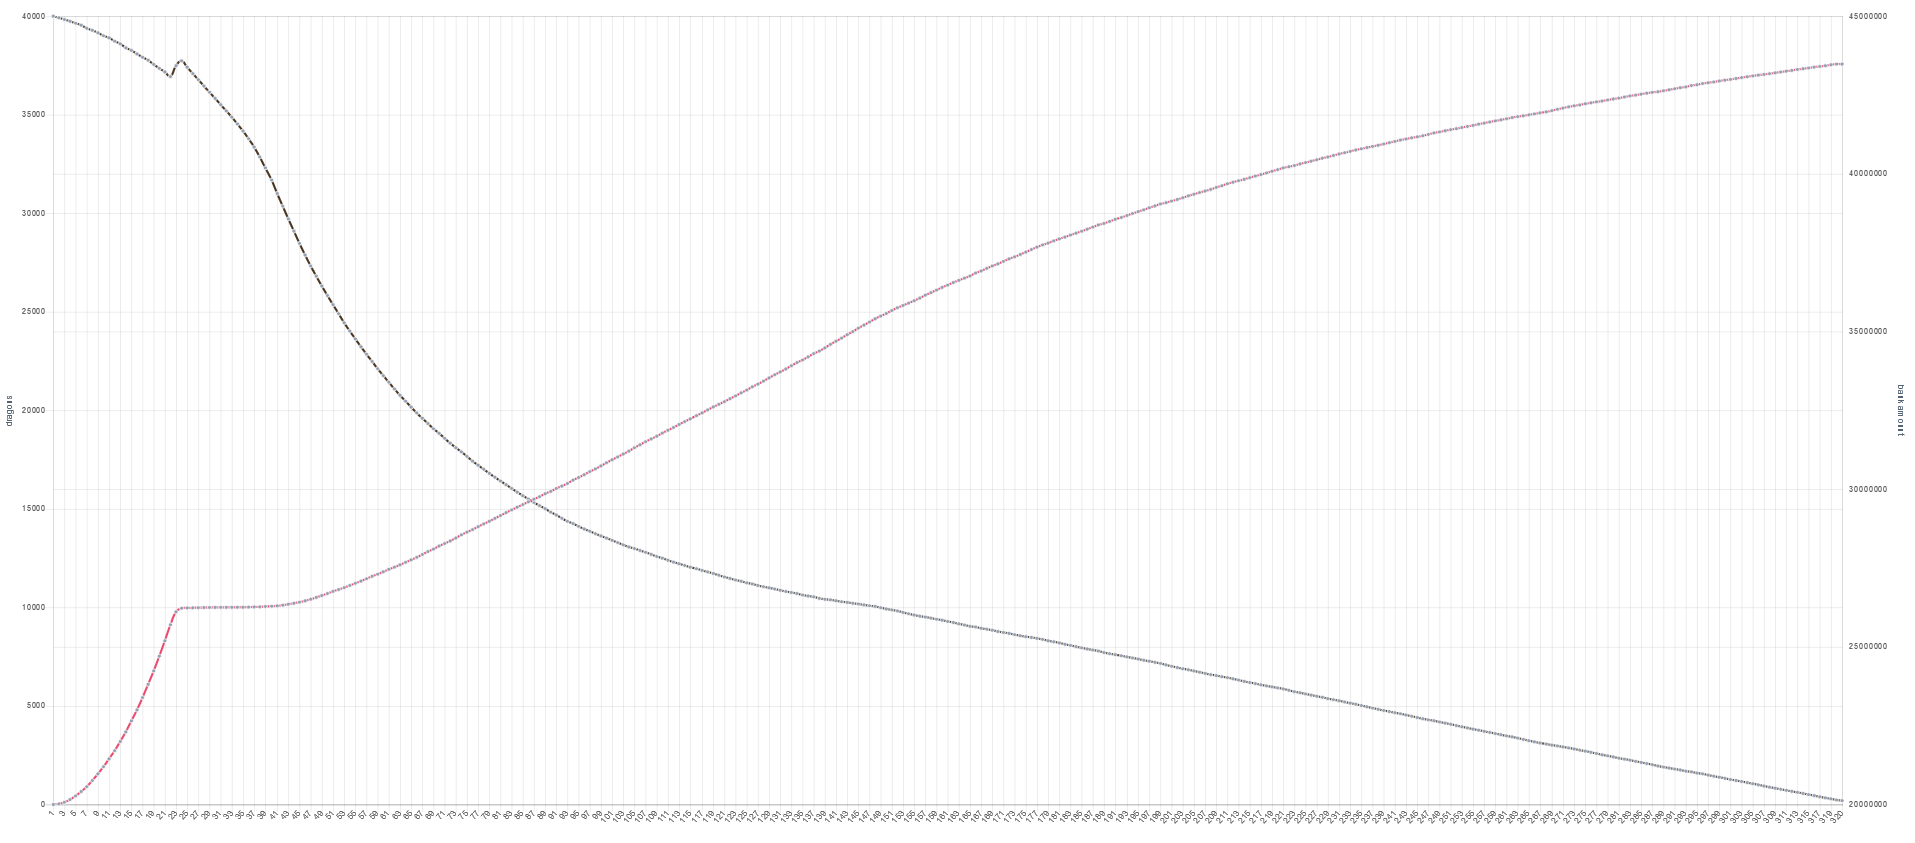
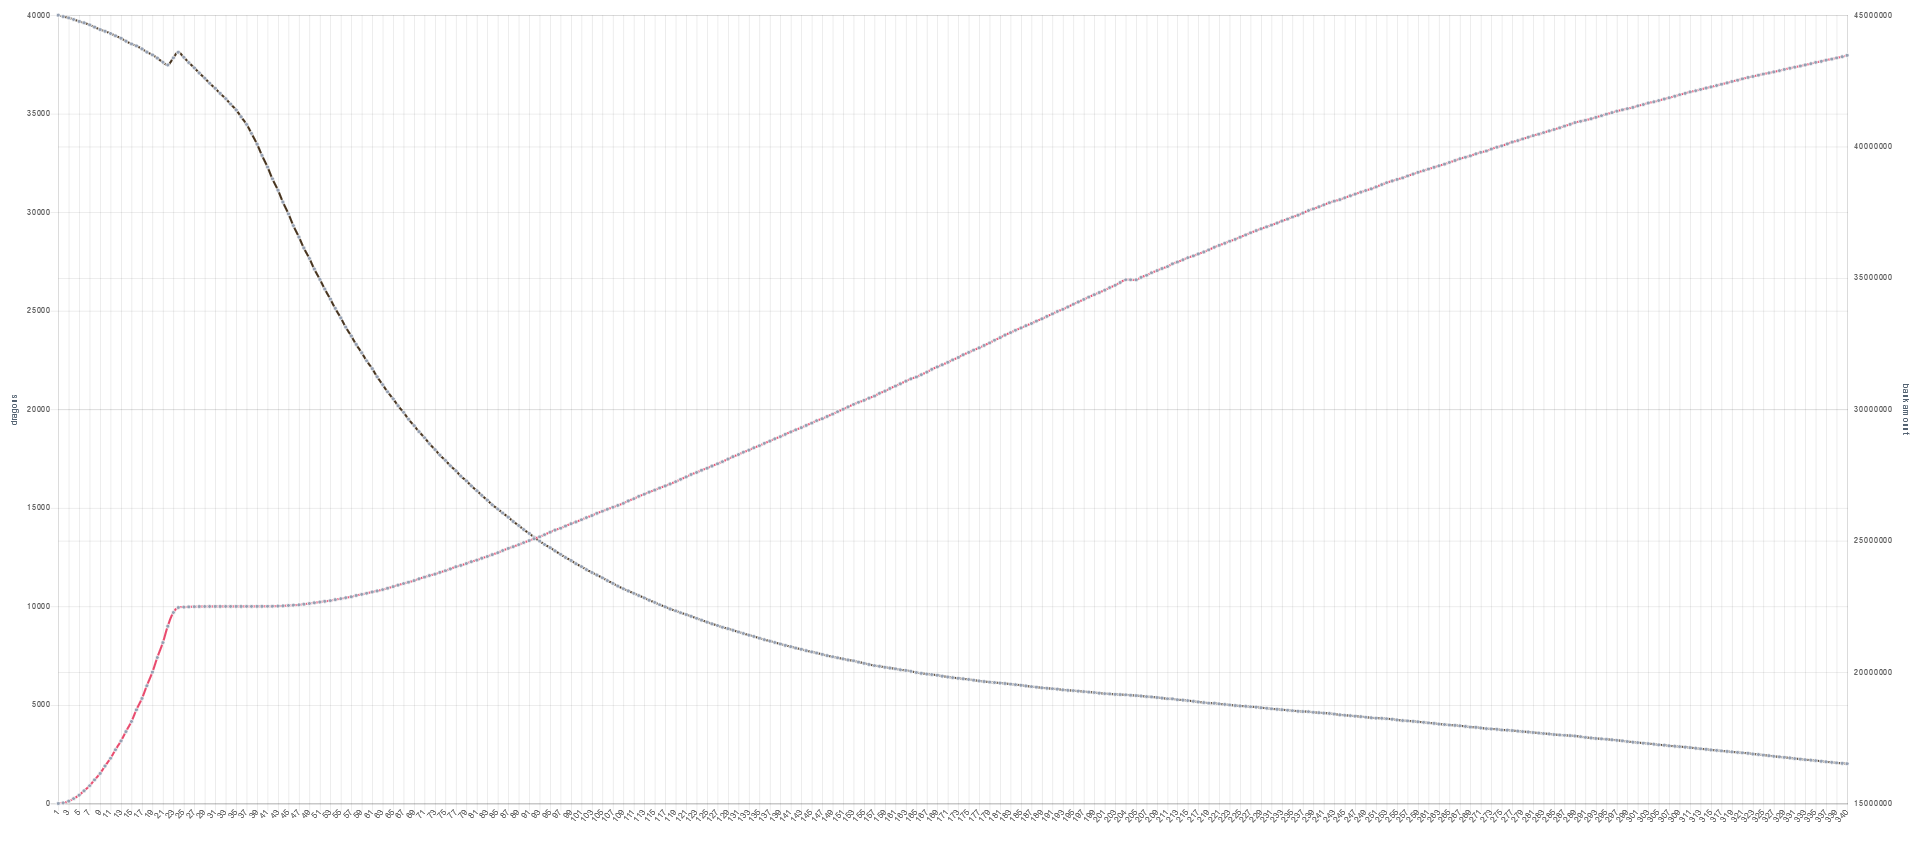
Case study 1 updated

diff --git a/dragonereum-whitepaper.tex b/dragonereum-whitepaper.tex
@@ -1963,57 +1963,57 @@ We study in detail three different cases. It should be noted that not all possib
 \hhline{-------}
 %row no:3
 \multicolumn{1}{|p{0.6in}}{\raggedleft {\fontsize{10pt}{12.0pt}\selectfont 500000}} & 
-\multicolumn{1}{|p{0.64in}}{\raggedleft {\fontsize{10pt}{12.0pt}\selectfont 19100}} & 
-\multicolumn{1}{|p{0.55in}}{\raggedleft {\fontsize{10pt}{12.0pt}\selectfont 27690000}} & 
-\multicolumn{1}{|p{0.55in}}{\raggedleft {\fontsize{10pt}{12.0pt}\selectfont 40435000}} & 
-\multicolumn{1}{|p{0.99in}}{\raggedleft {\fontsize{10pt}{12.0pt}\selectfont 29.92}} & 
-\multicolumn{1}{|p{0.9in}}{\raggedleft {\fontsize{10pt}{12.0pt}\selectfont 0.000150}} & 
-\multicolumn{1}{|p{0.99in}|}{\raggedleft {\fontsize{10pt}{12.0pt}\selectfont 0.150}} \\
+\multicolumn{1}{|p{0.64in}}{\raggedleft {\fontsize{10pt}{12.0pt}\selectfont 15900}} & 
+\multicolumn{1}{|p{0.55in}}{\raggedleft {\fontsize{10pt}{12.0pt}\selectfont 22650000}} & 
+\multicolumn{1}{|p{0.55in}}{\raggedleft {\fontsize{10pt}{12.0pt}\selectfont 42050000}} & 
+\multicolumn{1}{|p{0.99in}}{\raggedleft {\fontsize{10pt}{12.0pt}\selectfont 36.68}} & 
+\multicolumn{1}{|p{0.9in}}{\raggedleft {\fontsize{10pt}{12.0pt}\selectfont 0.000123}} & 
+\multicolumn{1}{|p{0.99in}|}{\raggedleft {\fontsize{10pt}{12.0pt}\selectfont 0.123}} \\
 \hhline{-------}
 %row no:4
 \multicolumn{1}{|p{0.6in}}{\raggedleft {\fontsize{10pt}{12.0pt}\selectfont 1000000}} & 
-\multicolumn{1}{|p{0.64in}}{\raggedleft {\fontsize{10pt}{12.0pt}\selectfont 26800}} & 
-\multicolumn{1}{|p{0.55in}}{\raggedleft {\fontsize{10pt}{12.0pt}\selectfont 25650000}} & 
-\multicolumn{1}{|p{0.55in}}{\raggedleft {\fontsize{10pt}{12.0pt}\selectfont 36590000}} & 
-\multicolumn{1}{|p{0.99in}}{\raggedleft {\fontsize{10pt}{12.0pt}\selectfont 14.32}} & 
-\multicolumn{1}{|p{0.9in}}{\raggedleft {\fontsize{10pt}{12.0pt}\selectfont 0.000314}} & 
-\multicolumn{1}{|p{0.99in}|}{\raggedleft {\fontsize{10pt}{12.0pt}\selectfont 0.314}} \\
+\multicolumn{1}{|p{0.64in}}{\raggedleft {\fontsize{10pt}{12.0pt}\selectfont 23500}} & 
+\multicolumn{1}{|p{0.55in}}{\raggedleft {\fontsize{10pt}{12.0pt}\selectfont 19600000}} & 
+\multicolumn{1}{|p{0.55in}}{\raggedleft {\fontsize{10pt}{12.0pt}\selectfont 38250000}} & 
+\multicolumn{1}{|p{0.99in}}{\raggedleft {\fontsize{10pt}{12.0pt}\selectfont 15.02}} & 
+\multicolumn{1}{|p{0.9in}}{\raggedleft {\fontsize{10pt}{12.0pt}\selectfont 0.000299}} & 
+\multicolumn{1}{|p{0.99in}|}{\raggedleft {\fontsize{10pt}{12.0pt}\selectfont 0.299}} \\
 \hhline{-------}
 %row no:5
 \multicolumn{1}{|p{0.6in}}{\raggedleft {\fontsize{10pt}{12.0pt}\selectfont 1500000}} & 
-\multicolumn{1}{|p{0.64in}}{\raggedleft {\fontsize{10pt}{12.0pt}\selectfont 31100}} & 
-\multicolumn{1}{|p{0.55in}}{\raggedleft {\fontsize{10pt}{12.0pt}\selectfont 24160000}} & 
-\multicolumn{1}{|p{0.55in}}{\raggedleft {\fontsize{10pt}{12.0pt}\selectfont 34440000}} & 
-\multicolumn{1}{|p{0.99in}}{\raggedleft {\fontsize{10pt}{12.0pt}\selectfont 10.05}} & 
-\multicolumn{1}{|p{0.9in}}{\raggedleft {\fontsize{10pt}{12.0pt}\selectfont 0.000448}} & 
-\multicolumn{1}{|p{0.99in}|}{\raggedleft {\fontsize{10pt}{12.0pt}\selectfont 0.448}} \\
+\multicolumn{1}{|p{0.64in}}{\raggedleft {\fontsize{10pt}{12.0pt}\selectfont 28900}} & 
+\multicolumn{1}{|p{0.55in}}{\raggedleft {\fontsize{10pt}{12.0pt}\selectfont 18680000}} & 
+\multicolumn{1}{|p{0.55in}}{\raggedleft {\fontsize{10pt}{12.0pt}\selectfont 35520000}} & 
+\multicolumn{1}{|p{0.99in}}{\raggedleft {\fontsize{10pt}{12.0pt}\selectfont 9.54}} & 
+\multicolumn{1}{|p{0.9in}}{\raggedleft {\fontsize{10pt}{12.0pt}\selectfont 0.000471}} & 
+\multicolumn{1}{|p{0.99in}|}{\raggedleft {\fontsize{10pt}{12.0pt}\selectfont 0.471}} \\
 \hhline{-------}
 %row no:6
 \multicolumn{1}{|p{0.6in}}{\raggedleft {\fontsize{10pt}{12.0pt}\selectfont 2000000}} & 
-\multicolumn{1}{|p{0.64in}}{\raggedleft {\fontsize{10pt}{12.0pt}\selectfont 33900}} & 
-\multicolumn{1}{|p{0.55in}}{\raggedleft {\fontsize{10pt}{12.0pt}\selectfont 22760000}} & 
-\multicolumn{1}{|p{0.55in}}{\raggedleft {\fontsize{10pt}{12.0pt}\selectfont 33060000}} & 
-\multicolumn{1}{|p{0.99in}}{\raggedleft {\fontsize{10pt}{12.0pt}\selectfont 8.01}} & 
-\multicolumn{1}{|p{0.9in}}{\raggedleft {\fontsize{10pt}{12.0pt}\selectfont 0.000561}} & 
-\multicolumn{1}{|p{0.99in}|}{\raggedleft {\fontsize{10pt}{12.0pt}\selectfont 0.561}} \\
+\multicolumn{1}{|p{0.64in}}{\raggedleft {\fontsize{10pt}{12.0pt}\selectfont 32800}} & 
+\multicolumn{1}{|p{0.55in}}{\raggedleft {\fontsize{10pt}{12.0pt}\selectfont 17930000}} & 
+\multicolumn{1}{|p{0.55in}}{\raggedleft {\fontsize{10pt}{12.0pt}\selectfont 33610000}} & 
+\multicolumn{1}{|p{0.99in}}{\raggedleft {\fontsize{10pt}{12.0pt}\selectfont 7.17}} & 
+\multicolumn{1}{|p{0.9in}}{\raggedleft {\fontsize{10pt}{12.0pt}\selectfont 0.000627}} & 
+\multicolumn{1}{|p{0.99in}|}{\raggedleft {\fontsize{10pt}{12.0pt}\selectfont 0.627}} \\
 \hhline{-------}
 %row no:7
 \multicolumn{1}{|p{0.6in}}{\raggedleft {\fontsize{10pt}{12.0pt}\selectfont 2500000}} & 
-\multicolumn{1}{|p{0.64in}}{\raggedleft {\fontsize{10pt}{12.0pt}\selectfont 35900}} & 
-\multicolumn{1}{|p{0.55in}}{\raggedleft {\fontsize{10pt}{12.0pt}\selectfont 21410000}} & 
-\multicolumn{1}{|p{0.55in}}{\raggedleft {\fontsize{10pt}{12.0pt}\selectfont 32020000}} & 
-\multicolumn{1}{|p{0.99in}}{\raggedleft {\fontsize{10pt}{12.0pt}\selectfont 6.70}} & 
-\multicolumn{1}{|p{0.9in}}{\raggedleft {\fontsize{10pt}{12.0pt}\selectfont 0.000671}} & 
-\multicolumn{1}{|p{0.99in}|}{\raggedleft {\fontsize{10pt}{12.0pt}\selectfont 0.671}} \\
+\multicolumn{1}{|p{0.64in}}{\raggedleft {\fontsize{10pt}{12.0pt}\selectfont 35700}} & 
+\multicolumn{1}{|p{0.55in}}{\raggedleft {\fontsize{10pt}{12.0pt}\selectfont 17220000}} & 
+\multicolumn{1}{|p{0.55in}}{\raggedleft {\fontsize{10pt}{12.0pt}\selectfont 32130000}} & 
+\multicolumn{1}{|p{0.99in}}{\raggedleft {\fontsize{10pt}{12.0pt}\selectfont 5.81}} & 
+\multicolumn{1}{|p{0.9in}}{\raggedleft {\fontsize{10pt}{12.0pt}\selectfont 0.000775}} & 
+\multicolumn{1}{|p{0.99in}|}{\raggedleft {\fontsize{10pt}{12.0pt}\selectfont 0.775}} \\
 \hhline{-------}
 %row no:8
 \multicolumn{1}{|p{0.6in}}{\raggedleft {\fontsize{10pt}{12.0pt}\selectfont 3000000}} & 
-\multicolumn{1}{|p{0.64in}}{\raggedleft {\fontsize{10pt}{12.0pt}\selectfont 37600}} & 
-\multicolumn{1}{|p{0.55in}}{\raggedleft {\fontsize{10pt}{12.0pt}\selectfont 20120000}} & 
-\multicolumn{1}{|p{0.55in}}{\raggedleft {\fontsize{10pt}{12.0pt}\selectfont 31220000}} & 
-\multicolumn{1}{|p{0.99in}}{\raggedleft {\fontsize{10pt}{12.0pt}\selectfont 5.76}} & 
-\multicolumn{1}{|p{0.9in}}{\raggedleft {\fontsize{10pt}{12.0pt}\selectfont 0.000780}} & 
-\multicolumn{1}{|p{0.99in}|}{\raggedleft {\fontsize{10pt}{12.0pt}\selectfont 0.780}} \\
+\multicolumn{1}{|p{0.64in}}{\raggedleft {\fontsize{10pt}{12.0pt}\selectfont 37900}} & 
+\multicolumn{1}{|p{0.55in}}{\raggedleft {\fontsize{10pt}{12.0pt}\selectfont 16520000}} & 
+\multicolumn{1}{|p{0.55in}}{\raggedleft {\fontsize{10pt}{12.0pt}\selectfont 31020000}} & 
+\multicolumn{1}{|p{0.99in}}{\raggedleft {\fontsize{10pt}{12.0pt}\selectfont 4.95}} & 
+\multicolumn{1}{|p{0.9in}}{\raggedleft {\fontsize{10pt}{12.0pt}\selectfont 0.000908}} & 
+\multicolumn{1}{|p{0.99in}|}{\raggedleft {\fontsize{10pt}{12.0pt}\selectfont 0.908}} \\
 \hhline{-------}
 
 \end{tabular}\caption{Case Study 1: the number of battles held (column 1), the corresponding dragon population (column 2), the Gold in the Treasury (column 3), Gold supply (column 4), the median {\it battle winner reward} (column 5), the median cost of Gold in ETH (column 6), and the cost of an egg incubation in ETH (column 7).}
@@ -2025,7 +2025,7 @@ We study in detail three different cases. It should be noted that not all possib
 %%%%%%%%%%%%%%%%%%%% Table No: 12 ends here %%%%%%%%%%%%%%%%%%%%
 
 
-In this scenario players breed dragons with a 90$\%$  probability and level them up with a 10$\%$  probability. The game balance decreases to around 20M GOLD at 3,000,000 battles and continue to decline slowly as a result of the high volume of egg incubations (part of Gold is burned during hatching), see  Table \ref{tab:Table showing the number of battles held (column 1), the corresponding dragon population (column 2), the Gold in the Treasury (column 3), the median battle winner reward (column 4), the median cost of Gold in $ (column 5), and the cost of an egg incubation (column 6).  This information is provided for the three different cases studied below. } (column 3), and Figure \ref{fig:The number of dragons (red line) as a function of the number of battles held, and the Treasury balance in GOLD (black line)} (black line). In Figure \ref{fig:The number of dragons (red line) as a function of the number of battles held, and the Treasury balance in GOLD (black line)} the dragon population growth is shown as a function of the number of battles held. The number of battles in these case studies is a more appropriate variable than using a synthetic time, as it is problematic to predict the actual number of active players. The initial sharp growth of the dragon population is due to the distribution of genesis eggs.\par
+In this scenario players breed dragons with a 90$\%$  probability and level them up with a 10$\%$  probability. The game balance decreases to around 16.5M GOLD at 3,000,000 battles and continue to decline slowly as a result of the high volume of egg incubations (part of Gold is burned during hatching), see  Table \ref{tab:Table showing the number of battles held (column 1), the corresponding dragon population (column 2), the Gold in the Treasury (column 3), the median battle winner reward (column 4), the median cost of Gold in $ (column 5), and the cost of an egg incubation (column 6).  This information is provided for the three different cases studied below. } (column 3), and Figure \ref{fig:The number of dragons (red line) as a function of the number of battles held, and the Treasury balance in GOLD (black line)} (black line). In Figure \ref{fig:The number of dragons (red line) as a function of the number of battles held, and the Treasury balance in GOLD (black line)} the dragon population growth is shown as a function of the number of battles held. The number of battles in these case studies is a more appropriate variable than using a synthetic time, as it is problematic to predict the actual number of active players. The initial sharp growth of the dragon population is due to the distribution of genesis eggs.\par
 
 
 
@@ -2043,7 +2043,7 @@ In this scenario players breed dragons with a 90$\%$  probability and level them
 %%%%%%%%%%%%%%%%%%%% Figure/Image No: 9 Ends here %%%%%%%%%%%%%%%%%%%%
 
 
-The \textit{battle winner reward} settles at 4.94 GOLD to 7.6 GOLD per battle depending on the DS\textit{.} This small range of reward values can be explained by the fact that all dragons are of similar DS since the players do not level up dragons and spend all DP on breeding. The exact values of the median \textit{battle winner reward }can be seen in  Table \ref{tab:Table showing the number of battles held (column 1), the corresponding dragon population (column 2), the Gold in the Treasury (column 3), the median battle winner reward (column 4), the median cost of Gold in $ (column 5), and the cost of an egg incubation (column 6).  This information is provided for the three different cases studied below. } (column 4), and Figure \ref{fig:The cost of Gold in dollars calculated as a sum of mining fees cost (light blue line), and the median battle reward in Gold versus the number of battles held (dark blue line).} (dark blue line).\par
+The \textit{battle winner reward} settles at 4.01 GOLD to 7.03 GOLD per battle depending on the DS\textit{.} This small range of reward values can be explained by the fact that all dragons are of similar DS since the players do not level up dragons and spend all DP on breeding. The exact values of the median \textit{battle winner reward }can be seen in  Table \ref{tab:Table showing the number of battles held (column 1), the corresponding dragon population (column 2), the Gold in the Treasury (column 3), the median battle winner reward (column 4), the median cost of Gold in $ (column 5), and the cost of an egg incubation (column 6).  This information is provided for the three different cases studied below. } (column 4), and Figure \ref{fig:The cost of Gold in dollars calculated as a sum of mining fees cost (light blue line), and the median battle reward in Gold versus the number of battles held (dark blue line).} (dark blue line).\par
 
 
 
@@ -2063,9 +2063,9 @@ The \textit{battle winner reward} settles at 4.94 GOLD to 7.6 GOLD per battle de
 
 In Figure \ref{fig:The cost of Gold in dollars calculated as a sum of mining fees cost (light blue line), and the median battle reward in Gold versus the number of battles held (dark blue line).} the cost of Gold in ETH calculated as a sum of mining fees necessary to mine the corresponding transactions is shown (light blue line) versus the number of battles held, which just like in Figure \ref{fig:The number of dragons (red line) as a function of the number of battles held, and the Treasury balance in GOLD (black line)} is a variable that represents time in this synthetic environment. The cost of Gold grows because the amount of Gold distributed to winners reduces with the increasing number of battles held\ (see\ Section   \ref{Early adopter advantage}),\ making Gold more valuable.The median {\it battle winner reward} shown in the dark blue line decreases, as it depends on the amount of Gold in the Treasury, see Equation  \ref{Eq:R}, which also decreases as shown in Figure \ref{fig:The number of dragons (red line) as a function of the number of battles held, and the Treasury balance in GOLD (black line)}.\par
 
-The mining cost for 1 GOLD is between 0.000591 ETH and 0.000909 ETH, at 3,000,000 battles, Figure \ref{fig:The cost of Gold in dollars calculated as a sum of mining fees cost (light blue line), and the median battle reward in Gold versus the number of battles held (dark blue line).} (light blue line).  It is calculated as:  ${{C}\over{\bar R}}$, where C is the cost of the transaction and  $\bar R$ is the median \textit{battle winner reward} (the median battle reward is shown as a function of the number of battles held in Figure \ref{fig:The cost of Gold in dollars calculated as a sum of mining fees cost (light blue line), and the median battle reward in Gold versus the number of battles held (dark blue line).}).\par
+The mining cost for 1 GOLD is between 0.000641 ETH and 0.001124 ETH, at 3,000,000 battles, Figure \ref{fig:The cost of Gold in dollars calculated as a sum of mining fees cost (light blue line), and the median battle reward in Gold versus the number of battles held (dark blue line).} (light blue line).  It is calculated as:  ${{C}\over{\bar R}}$, where C is the cost of the transaction and  $\bar R$ is the median \textit{battle winner reward} (the median battle reward is shown as a function of the number of battles held in Figure \ref{fig:The cost of Gold in dollars calculated as a sum of mining fees cost (light blue line), and the median battle reward in Gold versus the number of battles held (dark blue line).}).\par
 
-The cost of an egg incubation in this case is between 0.59 ETH and 0.91 ETH. This range comes from the fact that depending on who the winning dragons are there will be a different \textit{battle winner reward} associated with them depending on their DS.\par
+The cost of an egg incubation in this case is between 0.641 ETH and 1.124 ETH. This range comes from the fact that depending on who the winning dragons are there will be a different \textit{battle winner reward} associated with them depending on their DS.\par
 
 Therefore, economically motivated players will start leveling up dragons in order to get dragons of higher DS and earn more Gold in battles. As such, Case 1 is not in a stable state and will eventually turn into Case 2 portrayed below.\par
 
